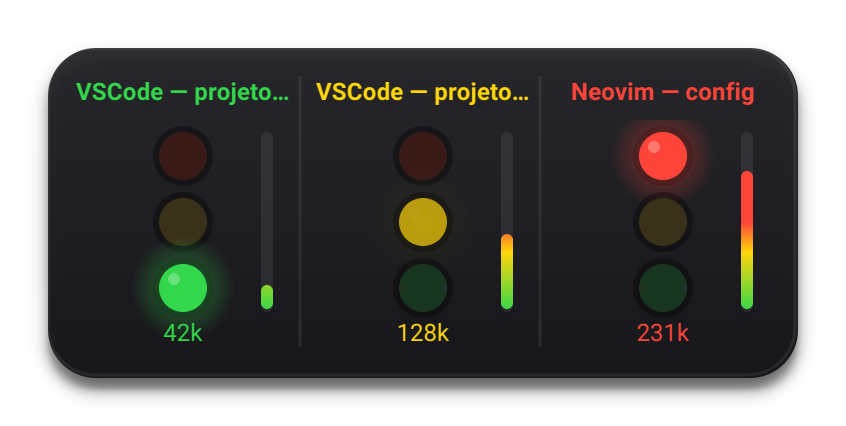
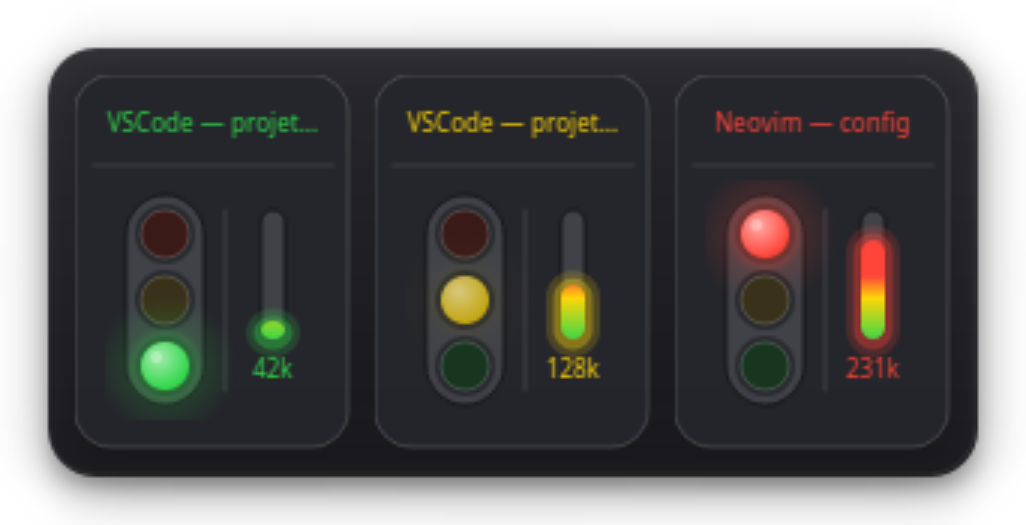
feat: cápsula ao redor das luzes e brilho mais vívido no semáforo
Envolve a pilha de 3 luzes numa trilha em pílula (mesmo estilo da
trilha da barra de uso ao lado), troca o glow único da luz acesa por
um bloom em duas camadas com núcleo clareado, e aplica o mesmo bloom
ao preenchimento da barra de uso vertical. Atualiza o screenshot do
painel pra refletir o novo visual.

diff --git a/light_column.py b/light_column.py
@@ -38,6 +38,13 @@ BEZEL_COLOR = QColor(0, 0, 0, 90)
 DOT_RING_COLOR = QColor(255, 255, 255, 40)  # anel da bolinha, mais claro que o preenchimento
 ORDER = ("error", "working", "idle")  # topo -> base, como um semáforo real
 
+# cápsula que envolve a pilha de 3 luzes, ecoando a trilha (pill) da barra de
+# uso ao lado — mesma cor/borda dela, pra as duas sub-colunas lerem como uma
+# família visual só (referência: mockup com os 3 dots dentro de um
+# "retângulo ovalado").
+LIGHT_TRACK_WIDTH = LIGHT_DIAMETER + 10
+LIGHT_TRACK_PADDING = LIGHT_GAP / 2 + 2  # folga entre o track e o primeiro/último dot
+
 # barra de uso acumulado de tokens, centralizada na sub-coluna à direita, com a
 # contagem desenhada direto no widget (em vez de um QLabel à parte no
 # layout) para não sobrar espaço extra quando uma sessão ainda não tem dado
@@ -228,6 +235,7 @@ class LightColumn(QWidget):
     def _paint_semaphore_style(self, painter: QPainter) -> None:
         center_x = LEFT_COL_WIDTH / 2
         top = TOP_PADDING
+        self._draw_light_track(painter, center_x, top)
         for i, name in enumerate(ORDER):
             cy = top + LIGHT_DIAMETER / 2 + i * (LIGHT_DIAMETER + LIGHT_GAP)
             self._draw_light(painter, center_x, cy, name, self.status == name)
@@ -248,6 +256,16 @@ class LightColumn(QWidget):
         if self.usage_enabled:
             self._draw_usage_row_horizontal(painter, top, DOT_STYLE_ROW_HEIGHT)
 
+    def _draw_light_track(self, painter: QPainter, cx: float, top: float) -> None:
+        x = cx - LIGHT_TRACK_WIDTH / 2
+        y = top - LIGHT_TRACK_PADDING
+        height = STACK_HEIGHT + 2 * LIGHT_TRACK_PADDING
+        painter.setPen(QPen(USAGE_BAR_BORDER_COLOR, 1))
+        painter.setBrush(USAGE_BAR_TRACK_COLOR)
+        painter.drawRoundedRect(
+            QRectF(x, y, LIGHT_TRACK_WIDTH, height), LIGHT_TRACK_WIDTH / 2, LIGHT_TRACK_WIDTH / 2
+        )
+
     def _draw_divider(self, painter: QPainter, top: float, height: float) -> None:
         painter.setPen(QPen(DIVIDER_COLOR, 1))
         painter.drawLine(QPointF(LEFT_COL_WIDTH, top), QPointF(LEFT_COL_WIDTH, top + height))
@@ -266,17 +284,33 @@ class LightColumn(QWidget):
         color_and_ratio = self._usage_color_and_ratio()
         if color_and_ratio is None:
             return
-        _color, ratio = color_and_ratio
+        color, ratio = color_and_ratio
         gradient = self._usage_gradient(x, top, height)
         if gradient is None:
             return
         filled = height * ratio
+        fill_top = top + height - filled
+        if filled > 0:
+            self._draw_bar_glow(painter, x, fill_top, USAGE_BAR_WIDTH, filled, color)
         painter.setPen(Qt.PenStyle.NoPen)
         painter.setBrush(gradient)
         painter.drawRoundedRect(
-            int(x), int(top + height - filled), USAGE_BAR_WIDTH, int(filled),
+            int(x), int(fill_top), USAGE_BAR_WIDTH, int(filled),
             USAGE_BAR_WIDTH / 2, USAGE_BAR_WIDTH / 2,
         )
+
+    def _draw_bar_glow(self, painter: QPainter, x: float, y: float, width: float, height: float, color: QColor) -> None:
+        # mesmo espírito do bloom das luzes (_draw_light): camadas
+        # concêntricas com alpha decrescente simulando um blur que o
+        # QPainter não tem nativamente, aqui achatadas num pill retangular
+        # em vez de um círculo.
+        painter.setPen(Qt.PenStyle.NoPen)
+        for outset, alpha in ((5.0, 45), (2.5, 90)):
+            glow = QColor(color)
+            glow.setAlpha(alpha)
+            painter.setBrush(glow)
+            w = width + 2 * outset
+            painter.drawRoundedRect(QRectF(x - outset, y - outset, w, height + 2 * outset), w / 2, w / 2)
 
     def _draw_usage_text(self, painter: QPainter, top: float, height: float) -> None:
         color_and_ratio = self._usage_color_and_ratio()
@@ -347,19 +381,42 @@ class LightColumn(QWidget):
             brightness = self._pulse_brightness() if self.status == "working" else 1.0
             base = LIGHT_COLORS[name]
 
-            glow = QRadialGradient(cx, cy, radius * 2.2)
-            inner = QColor(base)
-            inner.setAlphaF(0.5 * brightness)
-            outer = QColor(base)
-            outer.setAlphaF(0.0)
-            glow.setColorAt(0.0, inner)
-            glow.setColorAt(1.0, outer)
-            painter.setBrush(glow)
-            painter.drawEllipse(QPoint(int(cx), int(cy)), int(radius * 2.2), int(radius * 2.2))
+            # bloom em duas camadas: um halo largo e suave (o "vazamento" de luz
+            # na cápsula ao redor) por baixo de um segundo halo mais apertado e
+            # mais forte (a luminosidade concentrada perto do vidro), em vez de
+            # um único gradiente — dá o ar mais vívido/neon da referência sem
+            # perder a queda suave até alpha 0 na borda.
+            outer_glow = QRadialGradient(cx, cy, radius * 3.0)
+            outer_inner = QColor(base)
+            outer_inner.setAlphaF(0.30 * brightness)
+            outer_outer = QColor(base)
+            outer_outer.setAlphaF(0.0)
+            outer_glow.setColorAt(0.0, outer_inner)
+            outer_glow.setColorAt(1.0, outer_outer)
+            painter.setBrush(outer_glow)
+            painter.drawEllipse(QPoint(int(cx), int(cy)), int(radius * 3.0), int(radius * 3.0))
 
-            color = QColor(base)
-            color.setAlphaF(0.65 + 0.35 * brightness)
-            painter.setBrush(color)
+            inner_glow = QRadialGradient(cx, cy, radius * 1.7)
+            inner_inner = QColor(base)
+            inner_inner.setAlphaF(0.60 * brightness)
+            inner_outer = QColor(base)
+            inner_outer.setAlphaF(0.0)
+            inner_glow.setColorAt(0.0, inner_inner)
+            inner_glow.setColorAt(1.0, inner_outer)
+            painter.setBrush(inner_glow)
+            painter.drawEllipse(QPoint(int(cx), int(cy)), int(radius * 1.7), int(radius * 1.7))
+
+            # preenchimento da bolinha em si: gradiente radial de um núcleo
+            # clareado (não branco puro) pra cor base, em vez de fill chapado —
+            # é o que dá o ar de "esfera de vidro acesa" em vez de disco plano.
+            fill = QRadialGradient(cx - radius * 0.25, cy - radius * 0.35, radius * 1.3)
+            core = _lerp_color(base, QColor(255, 255, 255), 0.55)
+            core.setAlphaF(0.75 + 0.25 * brightness)
+            edge = QColor(base)
+            edge.setAlphaF(0.65 + 0.35 * brightness)
+            fill.setColorAt(0.0, core)
+            fill.setColorAt(1.0, edge)
+            painter.setBrush(fill)
         else:
             painter.setBrush(DIM_COLORS[name])
 
